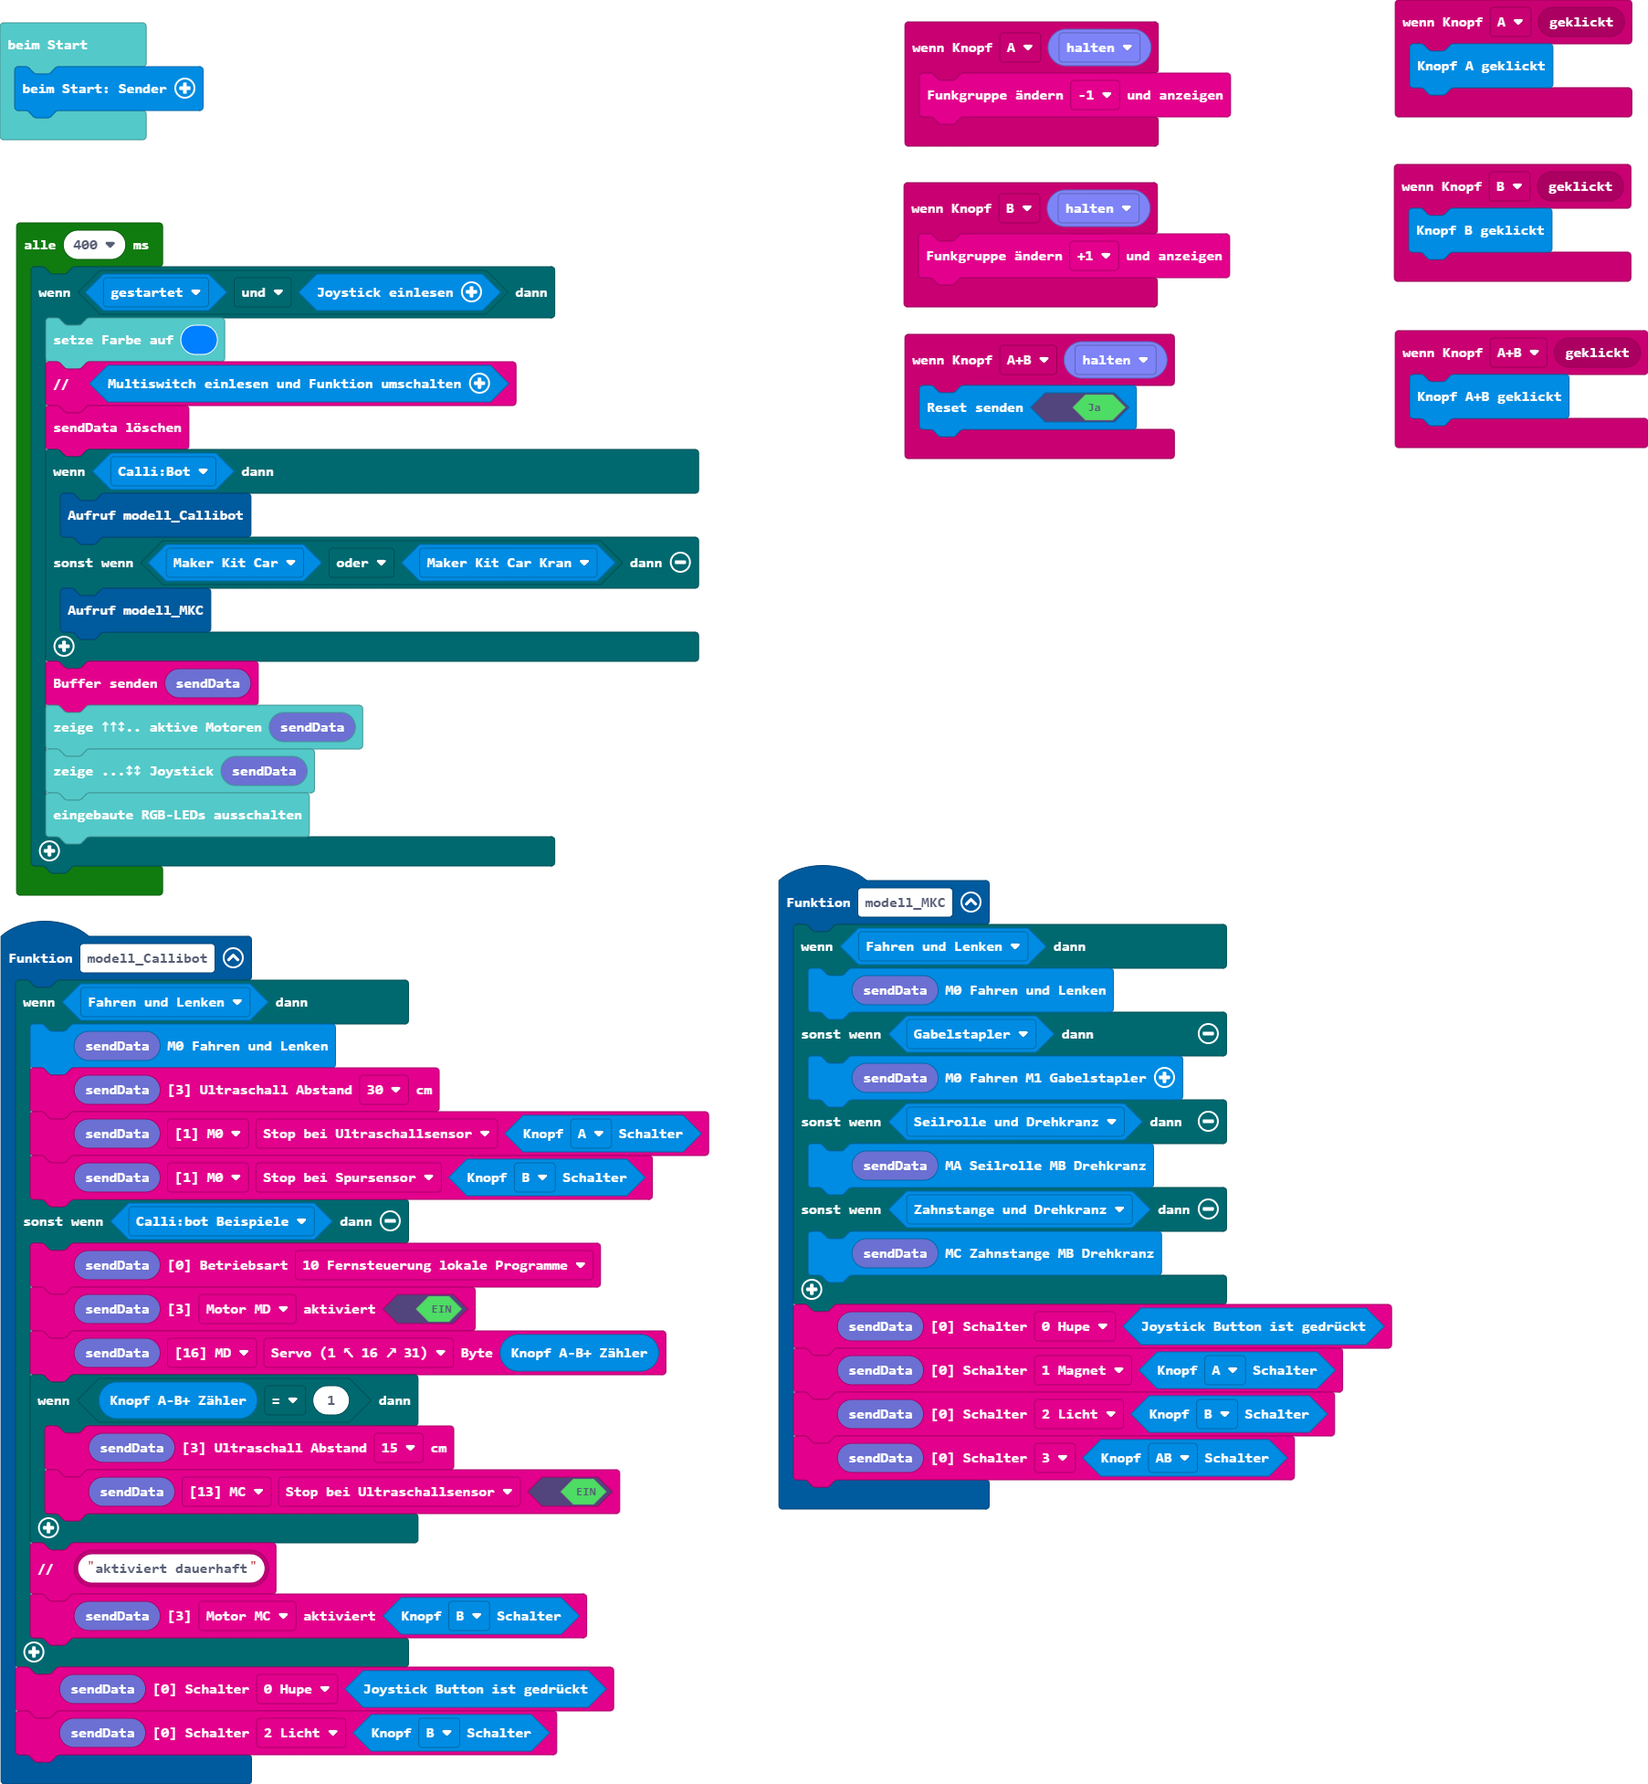
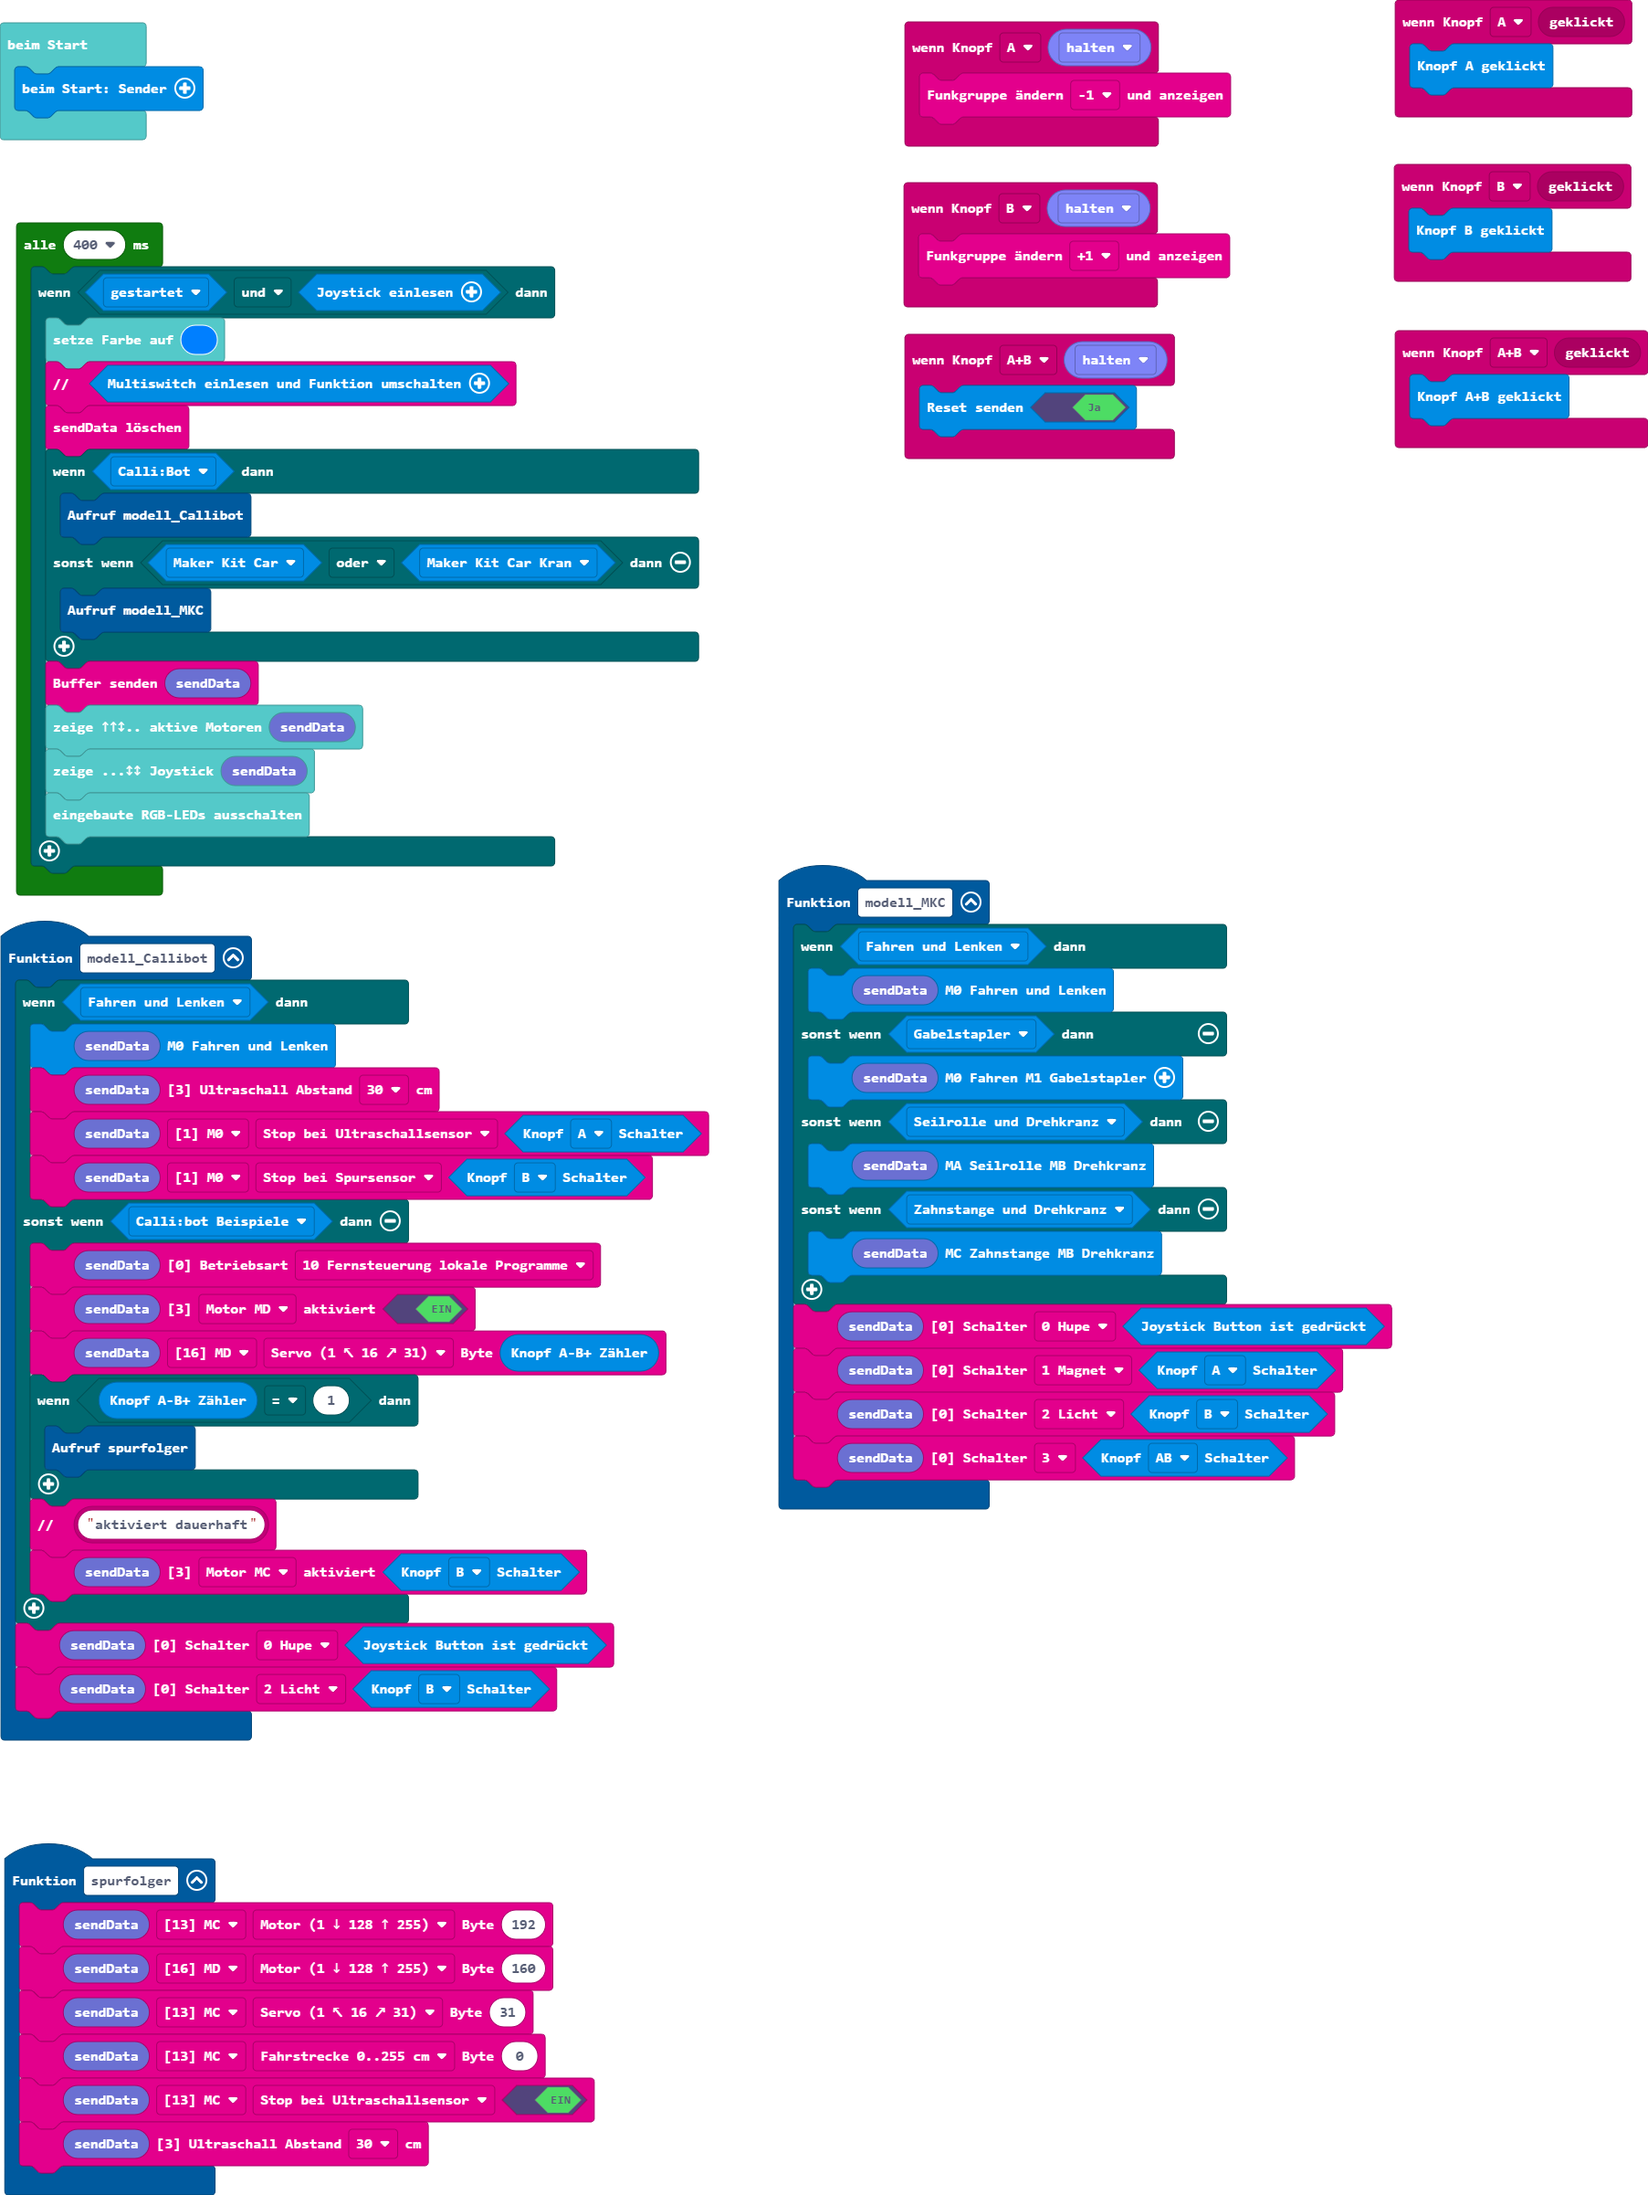
Aktualisiere main.blocks, main.ts

diff --git a/main.ts b/main.ts
@@ -9,8 +9,7 @@ function modell_Callibot () {
         btf.setaktiviert(btf.btf_sendBuffer19(), btf.e3aktiviert.md, true)
         btf.setByte(btf.btf_sendBuffer19(), btf.eBufferPointer.md, btf.eBufferOffset.b1_Servo, sender.getButtonAB_Counter())
         if (sender.getButtonAB_Counter() == 1) {
-            btf.setAbstand(btf.btf_sendBuffer19(), btf.e3Abstand.u1)
-            btf.setSensor(btf.btf_sendBuffer19(), btf.eBufferPointer.mc, btf.eSensor.b6Abstand, true)
+            spurfolger()
         }
         btf.comment(btf.btf_text("aktiviert dauerhaft"))
         btf.setaktiviert(btf.btf_sendBuffer19(), btf.e3aktiviert.mc, sender.getButtonAB_Switch(sender.eButtonAB_Switch.B))
@@ -47,6 +46,14 @@ function modell_MKC () {
     btf.setSchalter(btf.btf_sendBuffer19(), btf.e0Schalter.b1, sender.getButtonAB_Switch(sender.eButtonAB_Switch.A))
     btf.setSchalter(btf.btf_sendBuffer19(), btf.e0Schalter.b2, sender.getButtonAB_Switch(sender.eButtonAB_Switch.B))
     btf.setSchalter(btf.btf_sendBuffer19(), btf.e0Schalter.b3, sender.getButtonAB_Switch(sender.eButtonAB_Switch.AB))
+}
+function spurfolger () {
+    btf.setByte(btf.btf_sendBuffer19(), btf.eBufferPointer.mc, btf.eBufferOffset.b0_Motor, 192)
+    btf.setByte(btf.btf_sendBuffer19(), btf.eBufferPointer.md, btf.eBufferOffset.b0_Motor, 160)
+    btf.setByte(btf.btf_sendBuffer19(), btf.eBufferPointer.mc, btf.eBufferOffset.b1_Servo, 31)
+    btf.setByte(btf.btf_sendBuffer19(), btf.eBufferPointer.mc, btf.eBufferOffset.b2_Fahrstrecke, 0)
+    btf.setSensor(btf.btf_sendBuffer19(), btf.eBufferPointer.mc, btf.eSensor.b6Abstand, true)
+    btf.setAbstand(btf.btf_sendBuffer19(), btf.e3Abstand.u3)
 }
 input.onButtonEvent(Button.A, btf.buttonEventValue(ButtonEvent.Hold), function () {
     btf.setFunkgruppeButton(btf.eFunkgruppeButton.minus)
